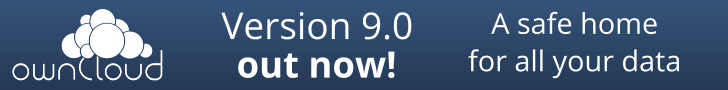
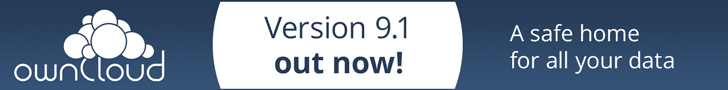
Put recent changes live (#1027)
* Fixing typos and add missing acknowledgments (#1022)

* Trademark Link and new Banners (#1024)

- Added a trademark link to the footer navigation
- created new promotional banners and edited the /promote/ page

* Provider Update (#1026)

* Added Unicodata and oCloud as new Providers

* Provider Update

- Removed Kangaroot, Noris Networks, Datacenter.de, Extensys, A2 Hosting, Vboxx, Enav.dk from supported providers

- Added ACP, Cyminds and KIGST as new supported providers

diff --git a/page-promote.php b/page-promote.php
@@ -47,15 +47,15 @@
 <p>We have ownCloud banners available for your blog or website! These are the sizes available:
 
 <ul>
-<li><a href="https://owncloud.org/wp-content/themes/owncloudorgnew/assets/img/features/ownCloud-release-160x600.png">160x600</a></li>
-<li><a href="https://owncloud.org/wp-content/themes/owncloudorgnew/assets/img/features/ownCloud-release-728x90.png">728x90</a></li>
-<li><a href="https://owncloud.org/wp-content/themes/owncloudorgnew/assets/img/features/ownCloud-release-460x70.png">460x70</a></li>
-<li><a href="https://owncloud.org/wp-content/themes/owncloudorgnew/assets/img/features/ownCloud-release-300x300.png">300x300</a></li>
-<li><a href="https://owncloud.org/wp-content/themes/owncloudorgnew/assets/img/features/ownCloud-release-300x250.png">300x250</a></li>
+<li><a href="<?php echo get_bloginfo('template_directory'); ?>/assets/img/features/ownCloud-release-160x600.png">160x600</a>, <a href="<?php echo get_bloginfo('template_directory'); ?>/assets/img/features/ownCloud-release-160x600@2x.png">160x600@2x</a></li>
+<li><a href="<?php echo get_bloginfo('template_directory'); ?>/assets/img/features/ownCloud-release-728x90.png">728x90</a>, <a href="<?php echo get_bloginfo('template_directory'); ?>/assets/img/features/ownCloud-release-728x90@2x.png">728x90@2x</a></li>
+<li><a href="<?php echo get_bloginfo('template_directory'); ?>/assets/img/features/ownCloud-release-460x70.png">460x70</a>, <a href="<?php echo get_bloginfo('template_directory'); ?>/assets/img/features/ownCloud-release-460x70@2x.png">460x70@2x</a></li>
+<li><a href="<?php echo get_bloginfo('template_directory'); ?>/assets/img/features/ownCloud-release-300x300.png">300x300</a>, <a href="<?php echo get_bloginfo('template_directory'); ?>/assets/img/features/ownCloud-release-300x300@2x.png">300x300@2x</a></li>
+<li><a href="<?php echo get_bloginfo('template_directory'); ?>/assets/img/features/ownCloud-release-300x250.png">300x250</a>, <a href="<?php echo get_bloginfo('template_directory'); ?>/assets/img/features/ownCloud-release-300x250@2x.png">300x250@2x</a></li>
 </ul>
 
 Example code:</p>
 
-<p><code>&lt;a href="http://owncloud.org/features"&gt;&lt;img src="https://owncloud.org/wp-content/themes/owncloudorgnew/assets/img/features/ownCloud-release-460x70.png" alt="ownCloud release" width="460" height="70" /&gt;&lt;/a&gt;</code></p>
+<p><code>&lt;a href="https://owncloud.org/features"&gt;&lt;img src="https://owncloud.org/wp-content/themes/owncloudorgnew/assets/img/features/ownCloud-release-460x70.png" srcset="https://owncloud.org/wp-content/themes/owncloudorgnew/assets/img/features/ownCloud-release-460x70.png 1x, https://owncloud.org/wp-content/themes/owncloudorgnew/assets/img/features/ownCloud-release-460x70@2x.png 2x" alt="ownCloud release" width="460" height="70" /&gt;&lt;/a&gt;</code></p>
 Will look like this:</br>
-<p><a href="http://owncloud.org/conf"><img class="alignnone size-full wp-image-8049" src="https://owncloud.org/wp-content/themes/owncloudorgnew/assets/img/features/ownCloud-release-460x70.png" alt="ownCloud release 460x70" width="460" height="70" /></a>
+<p><a href="https://owncloud.org/features"><img class="alignnone size-full wp-image-8049" src="<?php echo get_bloginfo('template_directory'); ?>/assets/img/features/ownCloud-release-460x70.png" srcset="<?php echo get_bloginfo('template_directory'); ?>/assets/img/features/ownCloud-release-460x70.png 1x, <?php echo get_bloginfo('template_directory'); ?>/assets/img/features/ownCloud-release-460x70@2x.png 2x" alt="ownCloud release 460x70" width="460" height="70" /></a>

diff --git a/templates/footer.php b/templates/footer.php
@@ -8,7 +8,7 @@
     </div>
   </div>
 <footer class="content-info" role="contentinfo">
-<div class="container">   
+<div class="container">
    <div class="row">
      <div class="col-sm-2 col-sm-offset-1">
         <div class="footer-nav">
@@ -18,6 +18,7 @@
             <li class="menu-history"><a href="<?php get_bloginfo('url'); ?>/history/">History</a></li>
             <li class="menu-events"><a href="<?php get_bloginfo('url'); ?>/events/">Events</a></li>
             <li class="menu-press"><a href="/press">Press</a></li>
+            <li class="menu-trademark"><a href="<?php get_bloginfo('url'); ?>/trademarks/">Trademark</a></li>
             <li class="menu-privacy"><a href="<?php get_bloginfo('url'); ?>/privacy/">Privacy policy</a></li>
           </ul>
         </div>
